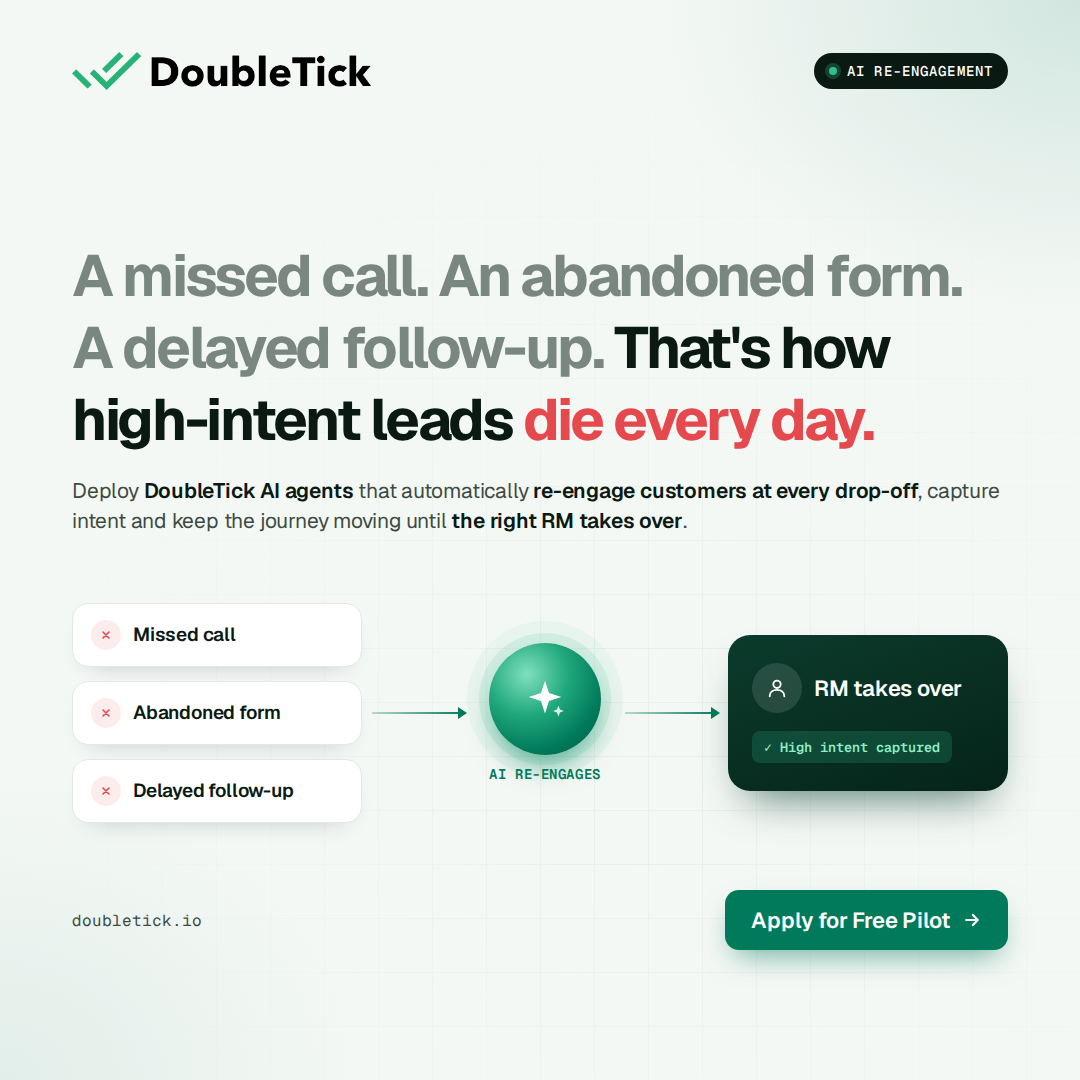
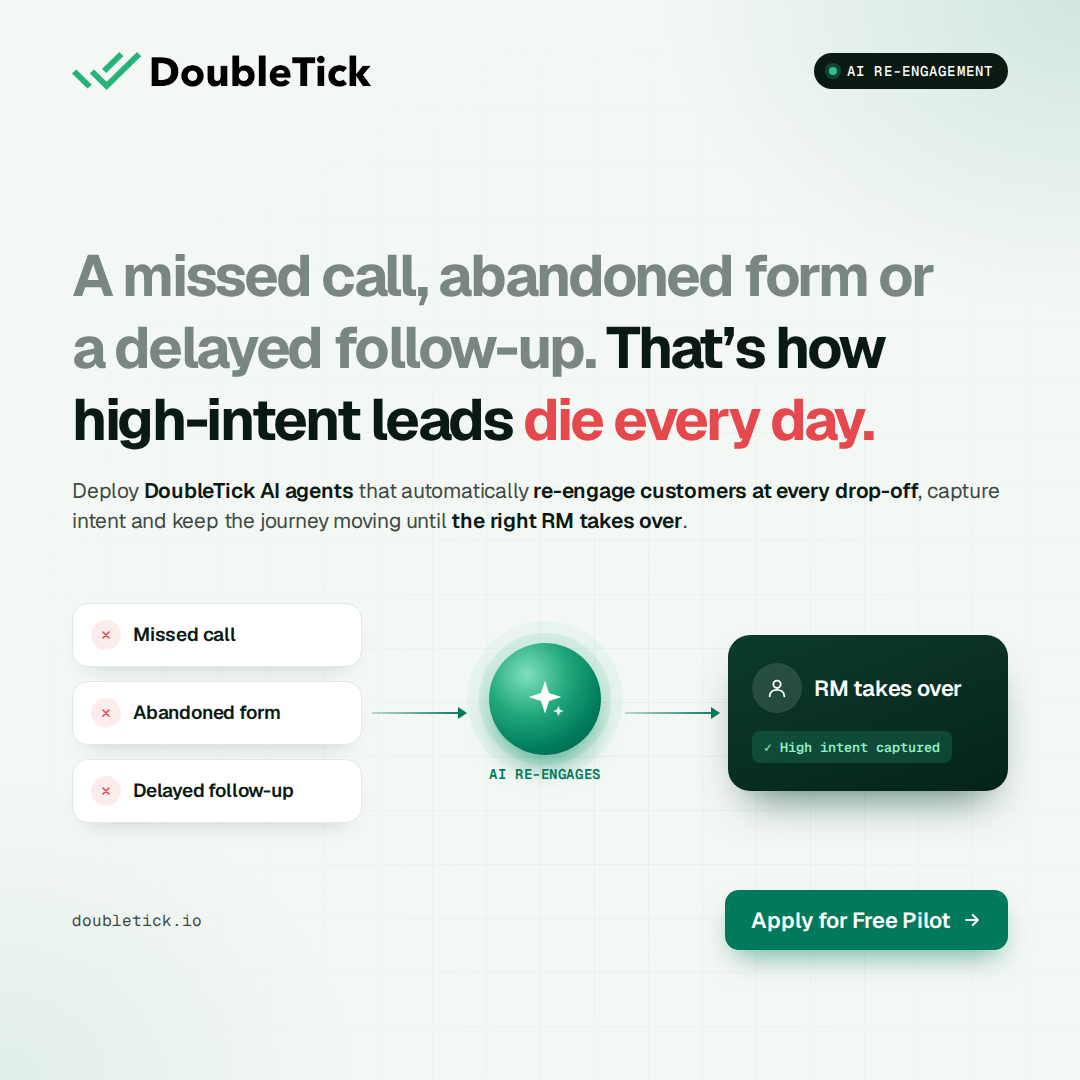
feat: reword re-engagement ad hook
Claude-Session: https://claude.ai/code/session_013Hi5o4KgvuLbKTeGkStAKX

Changed region(s): [[0.0611, 0.275, 0.825, 0.3667], [0.3972, 0.2139, 0.8861, 0.275]]

diff --git a/ads/doubletick-ai-reengage/index.html b/ads/doubletick-ai-reengage/index.html
@@ -100,7 +100,7 @@
     <div class="pill mono"><i></i>AI Re-engagement</div>
   </div>
 
-  <h1><span class="drop">A missed call. An abandoned form.</span><br/><span class="drop">A delayed follow-up.</span> That's how<br/>high-intent leads <span class="die">die every day.</span></h1>
+  <h1><span class="drop">A missed call, abandoned form or</span><br/><span class="drop">a delayed follow-up.</span> That&rsquo;s how<br/>high-intent leads <span class="die">die every day.</span></h1>
   <p class="sub">Deploy <b>DoubleTick AI agents</b> that automatically <b>re-engage customers at every drop-off</b>, capture intent and keep the journey moving until <b>the right RM takes over</b>.</p>
 
   <div class="flow">
